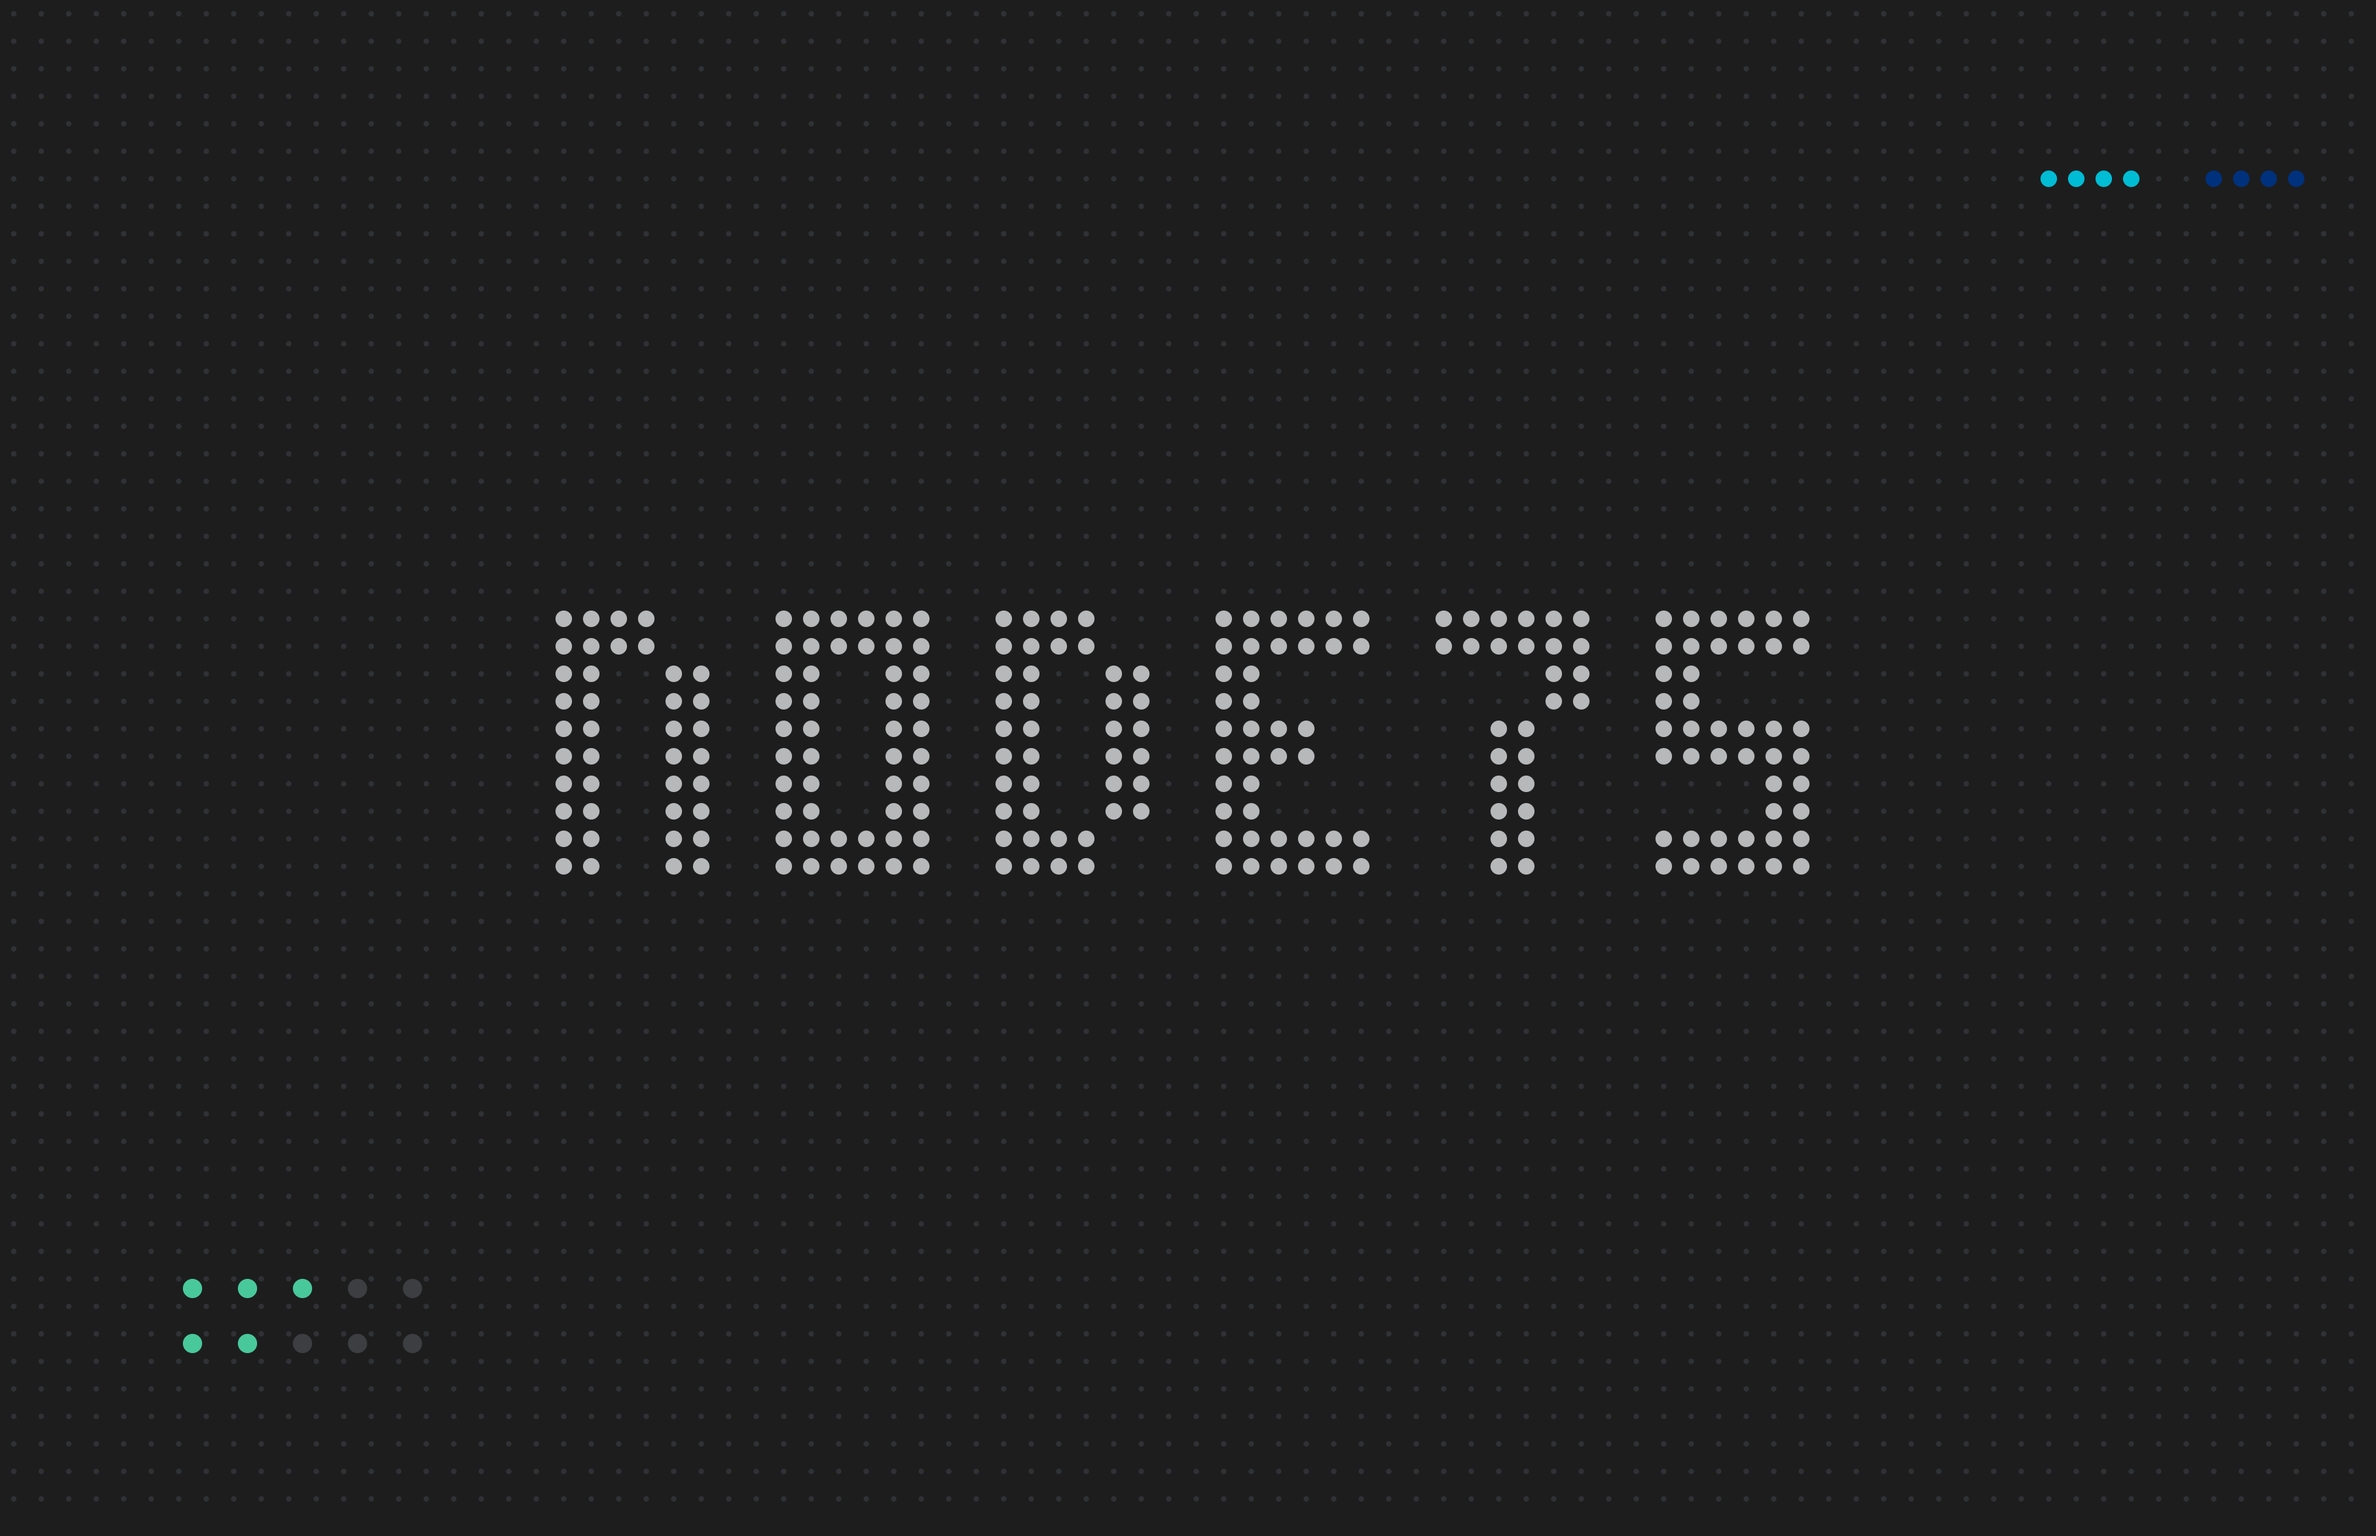
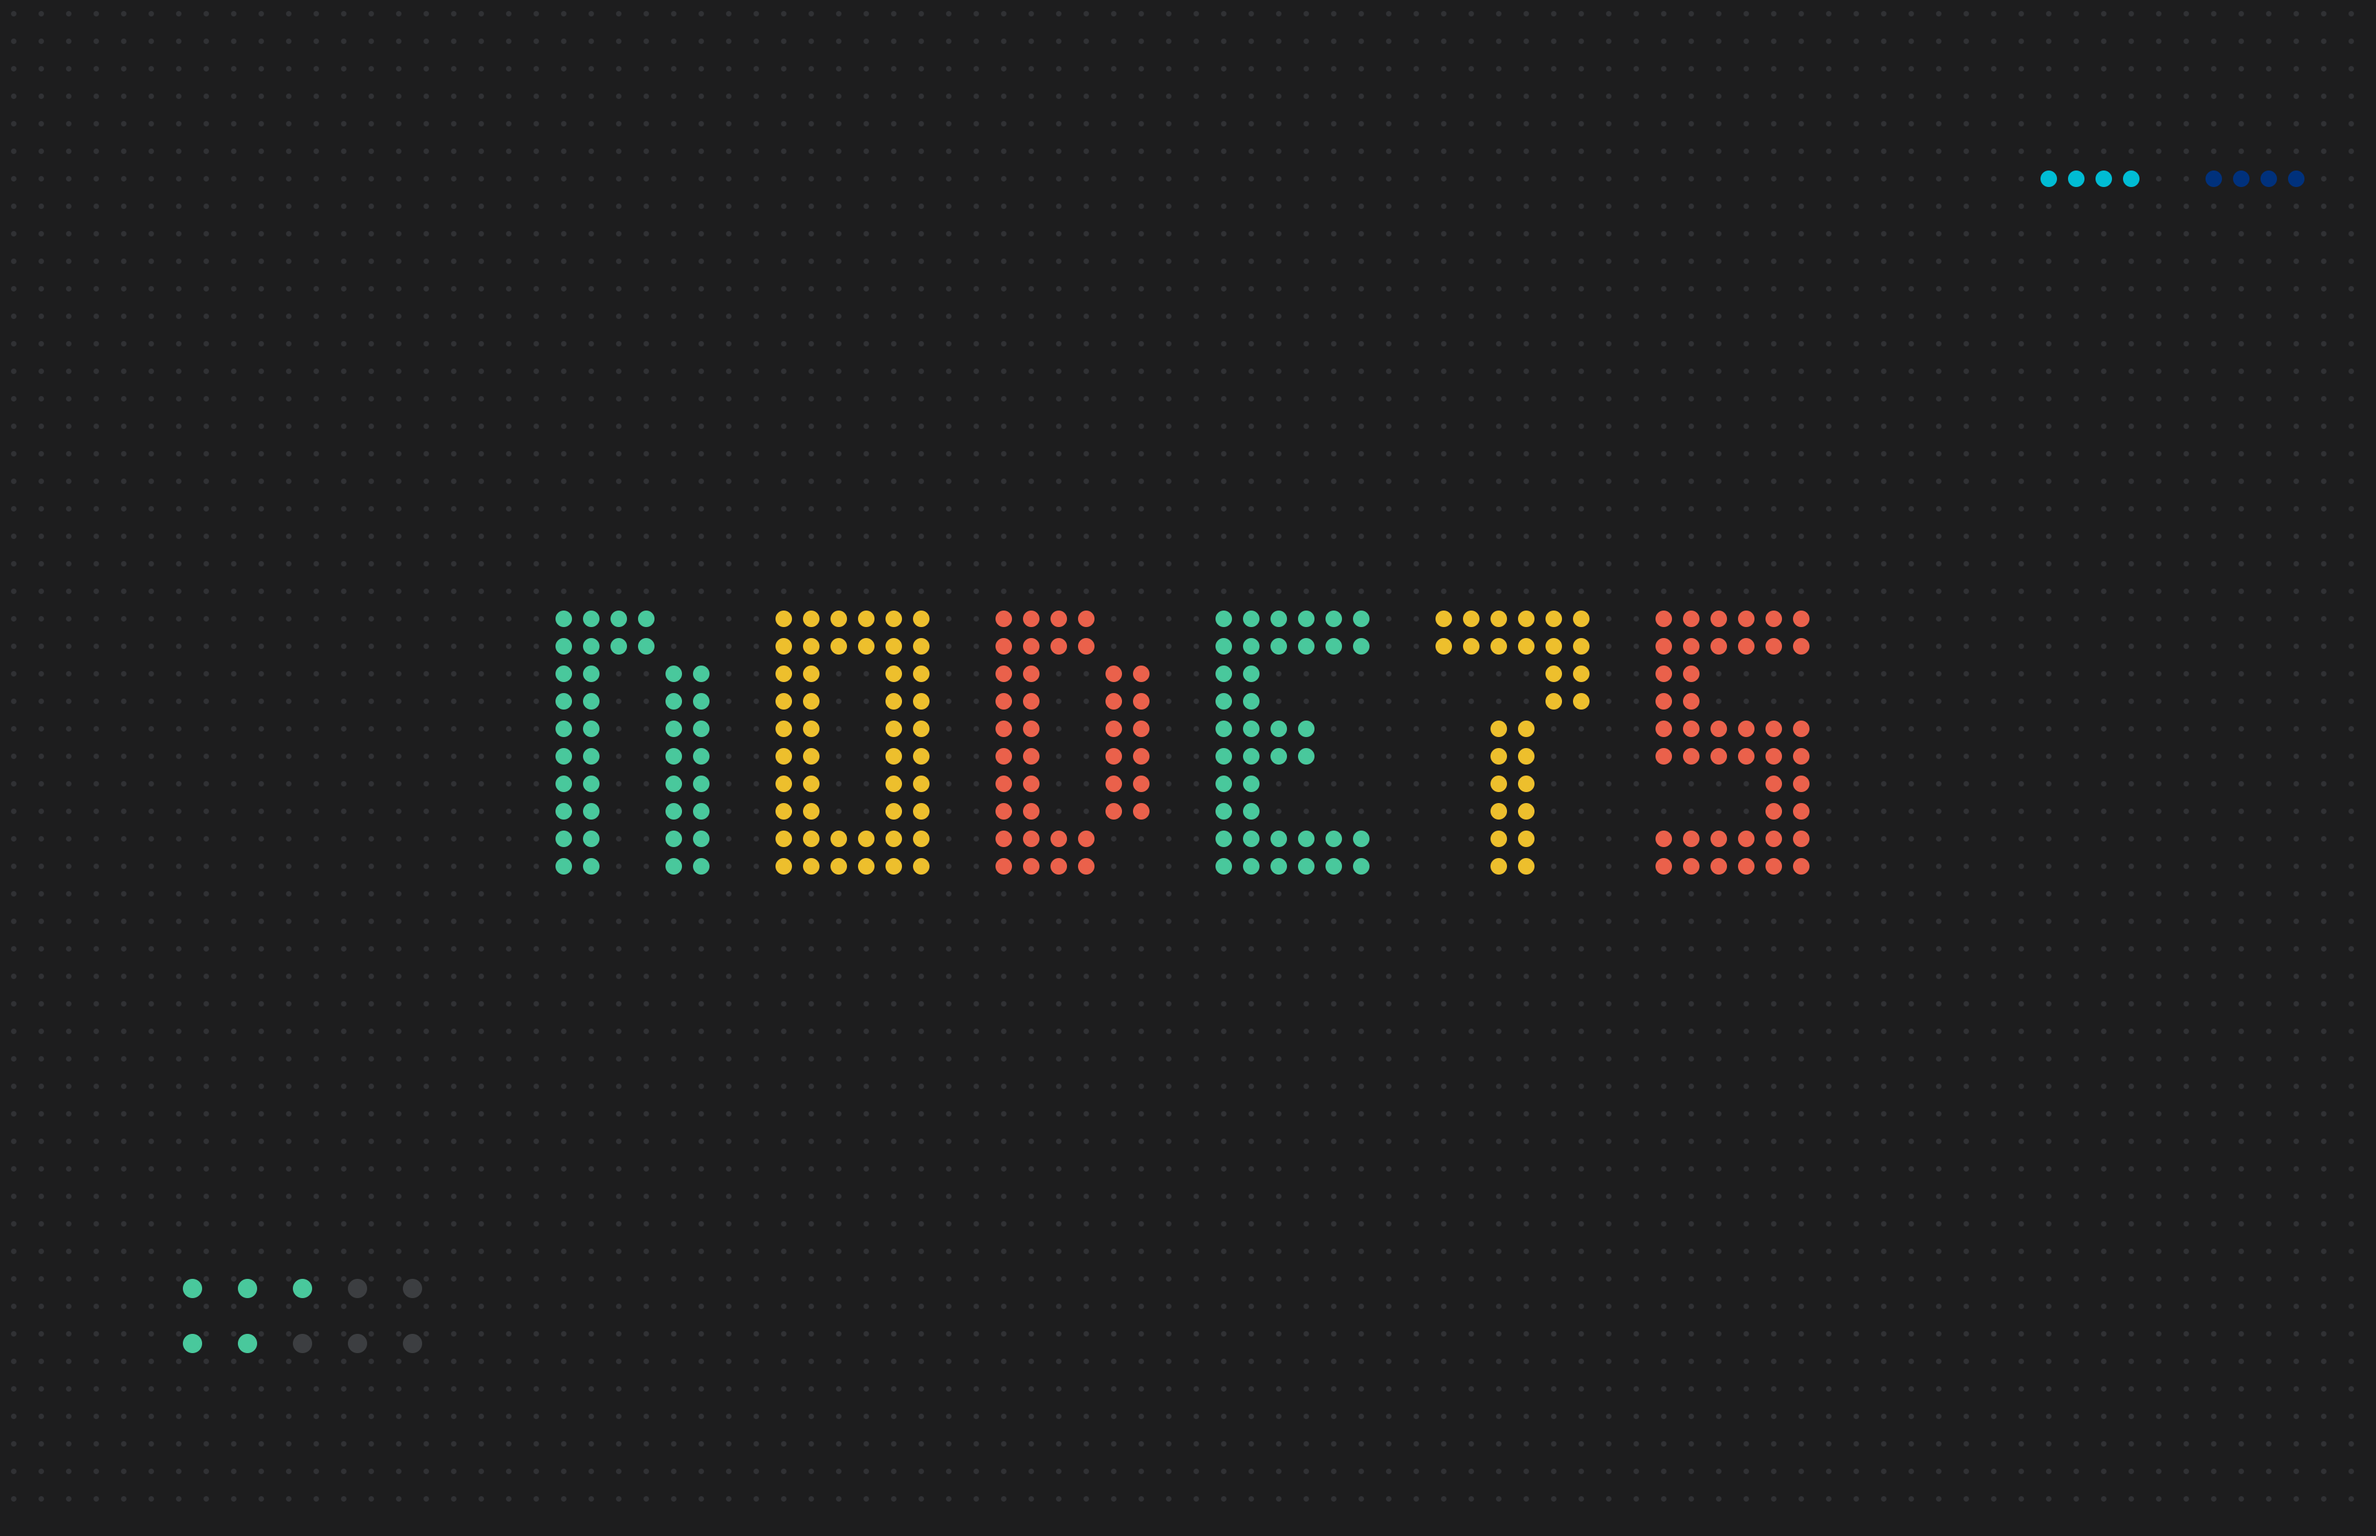
(wallpapers): keyboard names in each board's accent colors

Changed region(s): [[0.4688, 0.4015, 0.7812, 0.5868], [0.2812, 0.4015, 0.4688, 0.5868], [0.2188, 0.4015, 0.2812, 0.5868]]

diff --git a/home/.config/sketchybar/wallpapers/wallpapers.swift b/home/.config/sketchybar/wallpapers/wallpapers.swift
@@ -35,19 +35,20 @@ let glyphs: [Character: [String]] = [
   "E": ["111", "100", "110", "100", "111"], "7": ["111", "001", "010", "010", "010"],
   "5": ["111", "100", "111", "001", "111"],
 ]
-// Grid cells (column, row) lit by `text`, centered on a grid of `cols` x `rows`.
-func pixels(_ text: String, _ cols: Int, _ rows: Int) -> [(Int, Int)] {
+// Grid cells (column, row, letter index) lit by `text`, centered on a grid of
+// `cols` x `rows`. The index lets each letter take the next accent color.
+func pixels(_ text: String, _ cols: Int, _ rows: Int) -> [(Int, Int, Int)] {
   let x0 = (cols - (4 * text.count - 1)) / 2, y0 = (rows - 5) / 2
-  var out: [(Int, Int)] = []
+  var out: [(Int, Int, Int)] = []
   for (i, ch) in text.enumerated() {
     for (r, line) in glyphs[ch]!.enumerated() {
-      for (c, bit) in line.enumerated() where bit == "1" { out.append((x0 + 4 * i + c, y0 + r)) }
+      for (c, bit) in line.enumerated() where bit == "1" { out.append((x0 + 4 * i + c, y0 + r, i)) }
     }
   }
   return out
 }
 
-// Kick75: LEGO studs on the Obsidian Black case, KICK75 in white bricks, four 2x2 bricks bottom left
+// Kick75: LEGO studs on the Obsidian Black case, KICK75 in bricks of its accents, four 2x2 bricks bottom left
 // in the keyboard's accents, and the flag cells as 1x2
 // bricks, the same height as those.
 render("kick") { ctx in
@@ -60,9 +61,10 @@ render("kick") { ctx in
     ctx.setFillColor(rgb(base)); ctx.fill(CGRect(x: bx + 2, y: by + 2, width: 2 * s - 4, height: 2 * s - 4))
     for j in 0..<4 { dot(ctx, bx + s / 2 + (j % 2) * s, by + s / 2 + (j / 2) * s, 24, rgb(stud)) }
   }
-  for (gx, gy) in pixels("KICK75", W / s, H / s) {
-    ctx.setFillColor(rgb(0xf2f2ee)); ctx.fill(CGRect(x: gx * s + 2, y: gy * s + 2, width: s - 4, height: s - 4))
-    dot(ctx, gx * s + s / 2, gy * s + s / 2, 24, rgb(0xfbfbf8))
+  for (gx, gy, i) in pixels("KICK75", W / s, H / s) {
+    let (base, stud) = bricks[i % bricks.count]
+    ctx.setFillColor(rgb(base)); ctx.fill(CGRect(x: gx * s + 2, y: gy * s + 2, width: s - 4, height: s - 4))
+    dot(ctx, gx * s + s / 2, gy * s + s / 2, 24, rgb(stud))
   }
   for (col, base, stud) in flagCells {
     let x = (W / s - col) * s, y = 3 * s
@@ -72,14 +74,15 @@ render("kick") { ctx in
 }
 
 // Node75 Ink Gray: the perforated texture over the near-black case, NODE75 in
-// dot-matrix dots, the flag
+// dot-matrix dots of its accents, the flag
 // cells as larger dots, and a 5x2 LED matrix lit in the mint Esc green.
 render("node") { ctx in
   ctx.setFillColor(rgb(0x161617)); ctx.fill(CGRect(x: 0, y: 0, width: W, height: H))
   let s = 40
   for gy in 0..<(H / s) { for gx in 0..<(W / s) { dot(ctx, gx * s + s / 2, gy * s + s / 2, 4, rgb(0x242527)) } }
-  for (px, py) in pixels("NODE75", W / s / 2, H / s / 2) {   // each font pixel is 2x2 dots
-    for j in 0..<4 { dot(ctx, (2 * px + j % 2) * s + s / 2, (2 * py + j / 2) * s + s / 2, 12, rgb(0xa8a9ab)) }
+  let accents: [UInt32] = [0x3fbf8a, 0xe8b423, 0xe24a3b]   // mint, yellow, red
+  for (px, py, i) in pixels("NODE75", W / s / 2, H / s / 2) {   // each font pixel is 2x2 dots
+    for j in 0..<4 { dot(ctx, (2 * px + j % 2) * s + s / 2, (2 * py + j / 2) * s + s / 2, 12, rgb(accents[i % accents.count])) }
   }
   for (col, base, _) in flagCells { dot(ctx, (W / s - col) * s + s / 2, 6 * s + s / 2, 12, rgb(base)) }
   let lit: Set<Int> = [0, 1, 2, 5, 6]

diff --git a/README.md b/README.md
@@ -319,7 +319,7 @@ The wallpaper follows too, set by `sketchybarrc` on every load from
 with a mint 5x2 LED block, each with four Kazakh sky-blue cells, a gap and
 four Australian navy ones at the top right (1x2 bricks on the Kick, bigger dots
 on the Node), and the keyboard's name in the center in the same style: KICK75
-in white bricks, NODE75 in dot-matrix dots. The built-in keyboard alone gets a plain gradient. They are drawn at the
+in its accent-colored bricks, NODE75 in its accent-colored dots. The built-in keyboard alone gets a plain gradient. They are drawn at the
 built-in display's 3456x2234; `swift wallpapers.swift` in that directory
 redraws them. macOS caches wallpapers by path, so after a redraw clear
 `~/Library/Containers/com.apple.wallpaper.agent/Data/Library/Caches/com.apple.wallpaper.caches/extension-com.apple.wallpaper.extension.image/`
